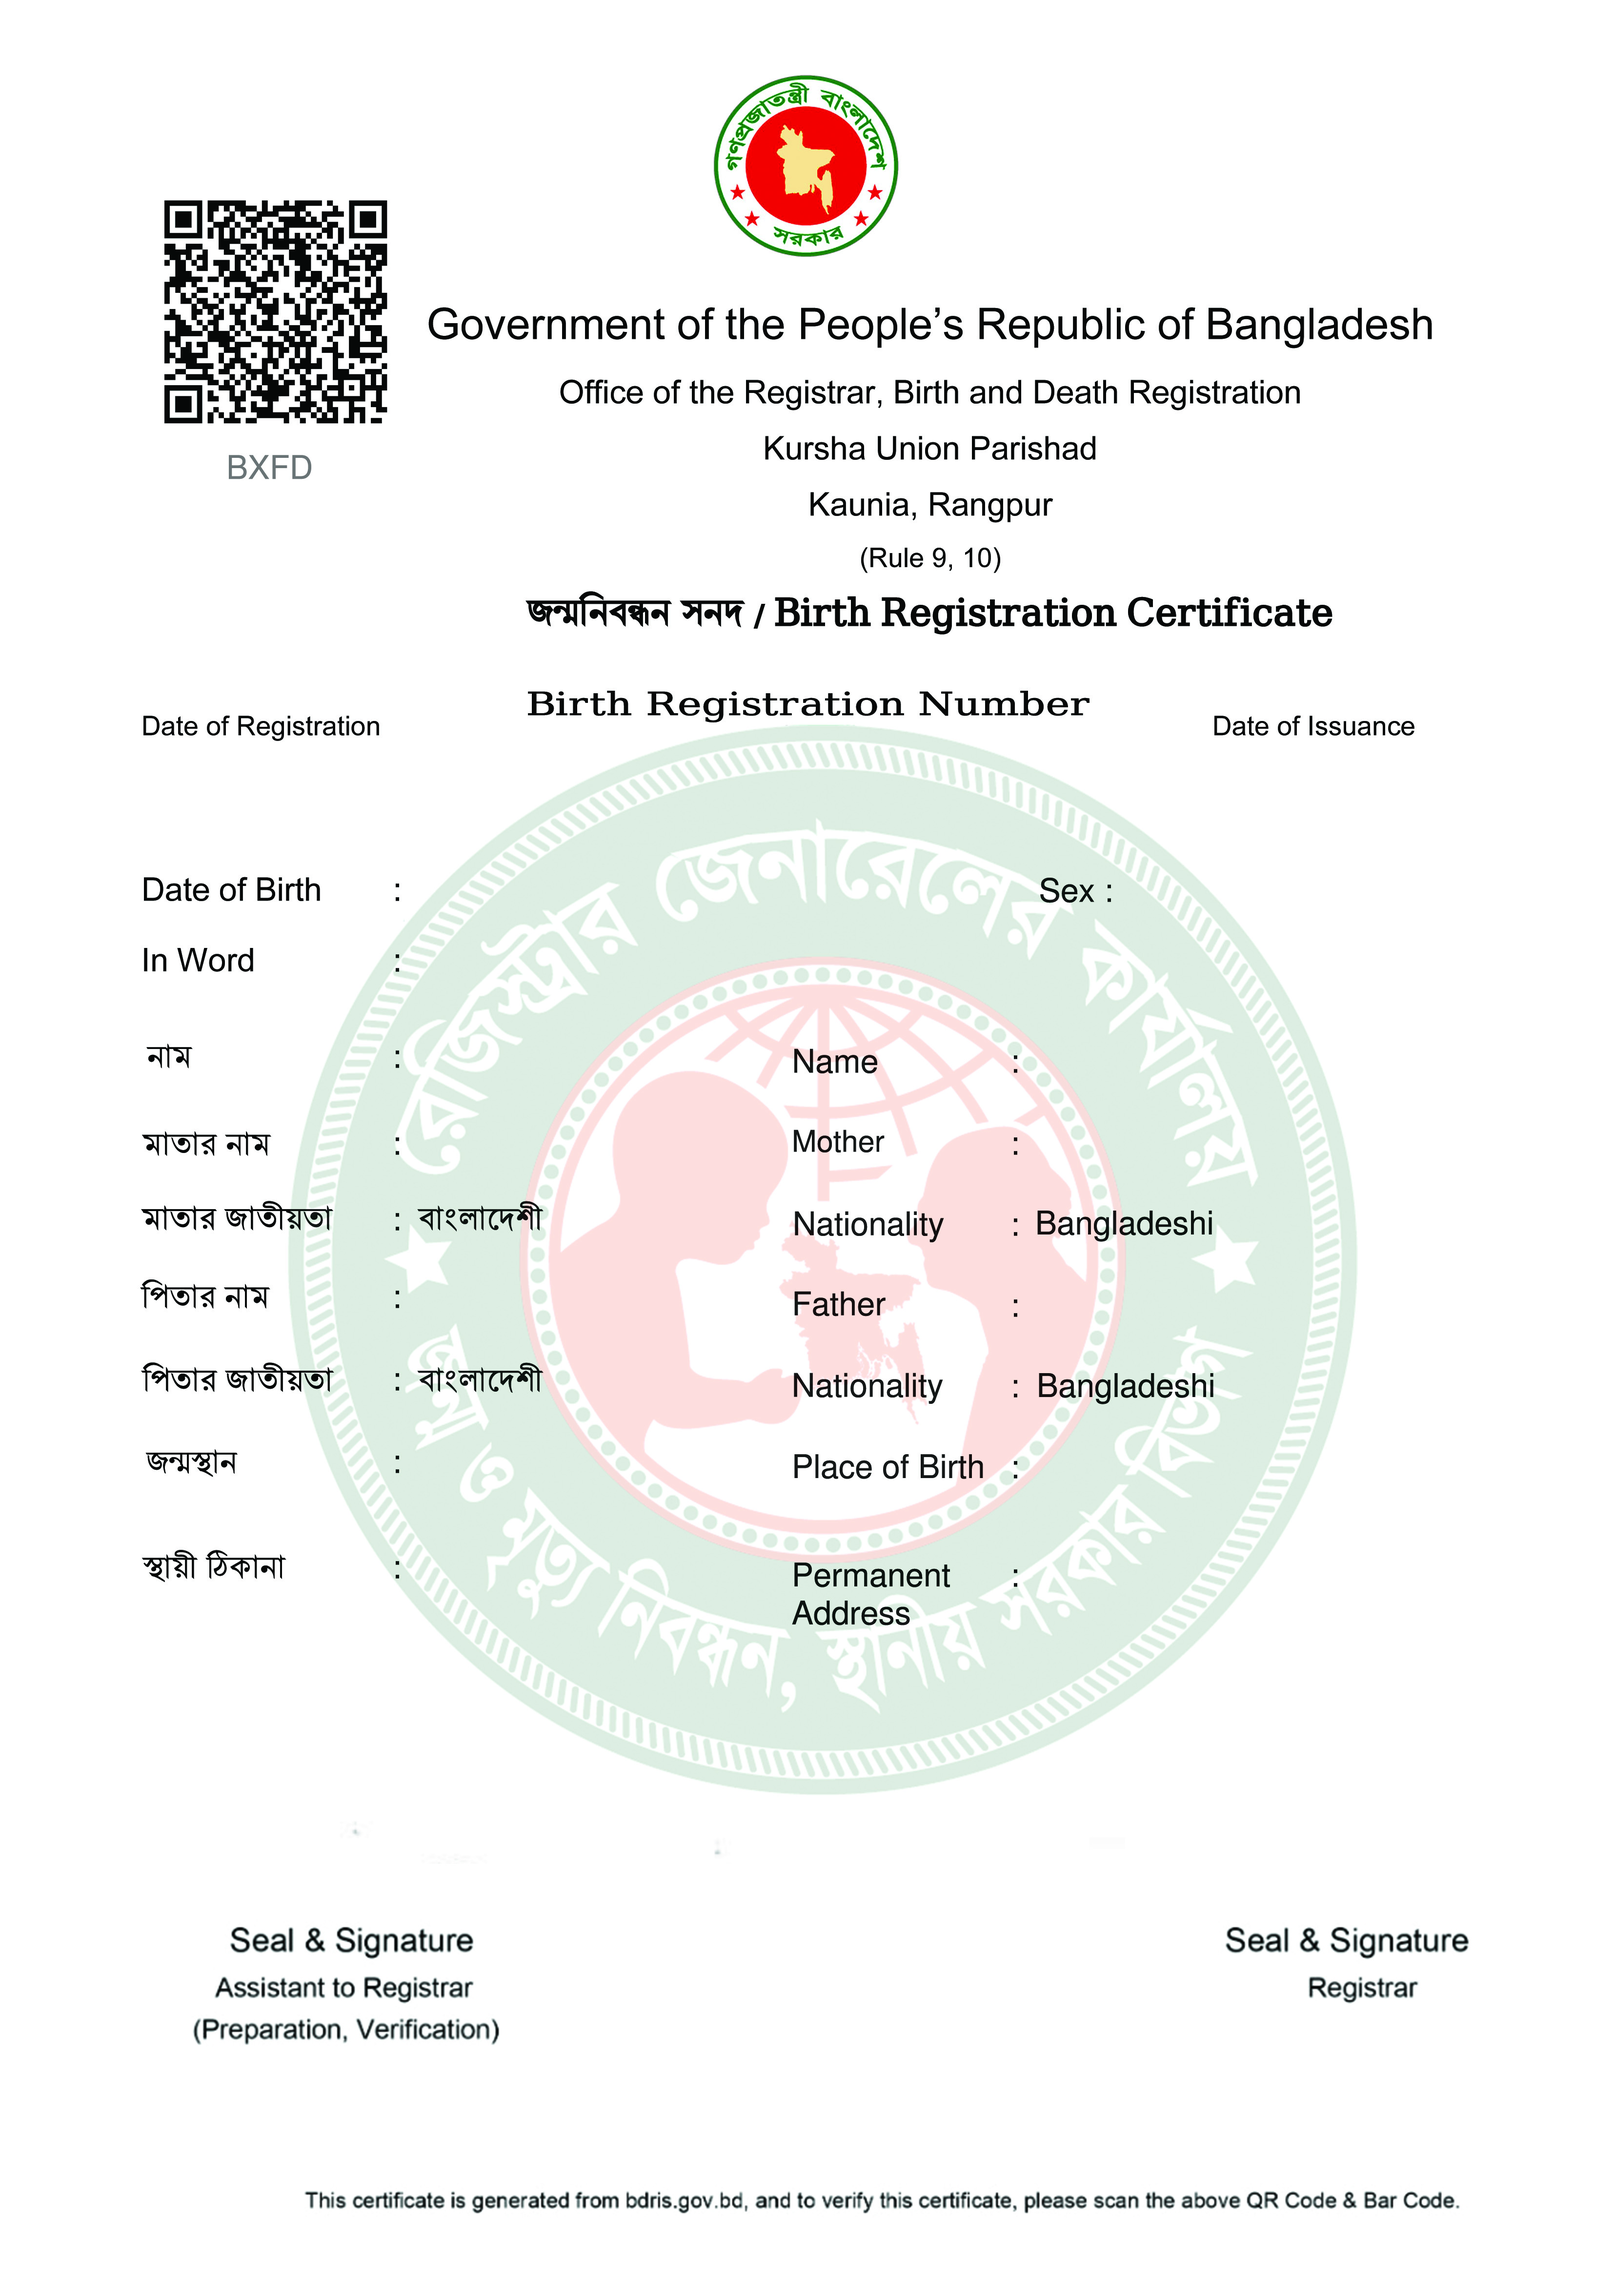
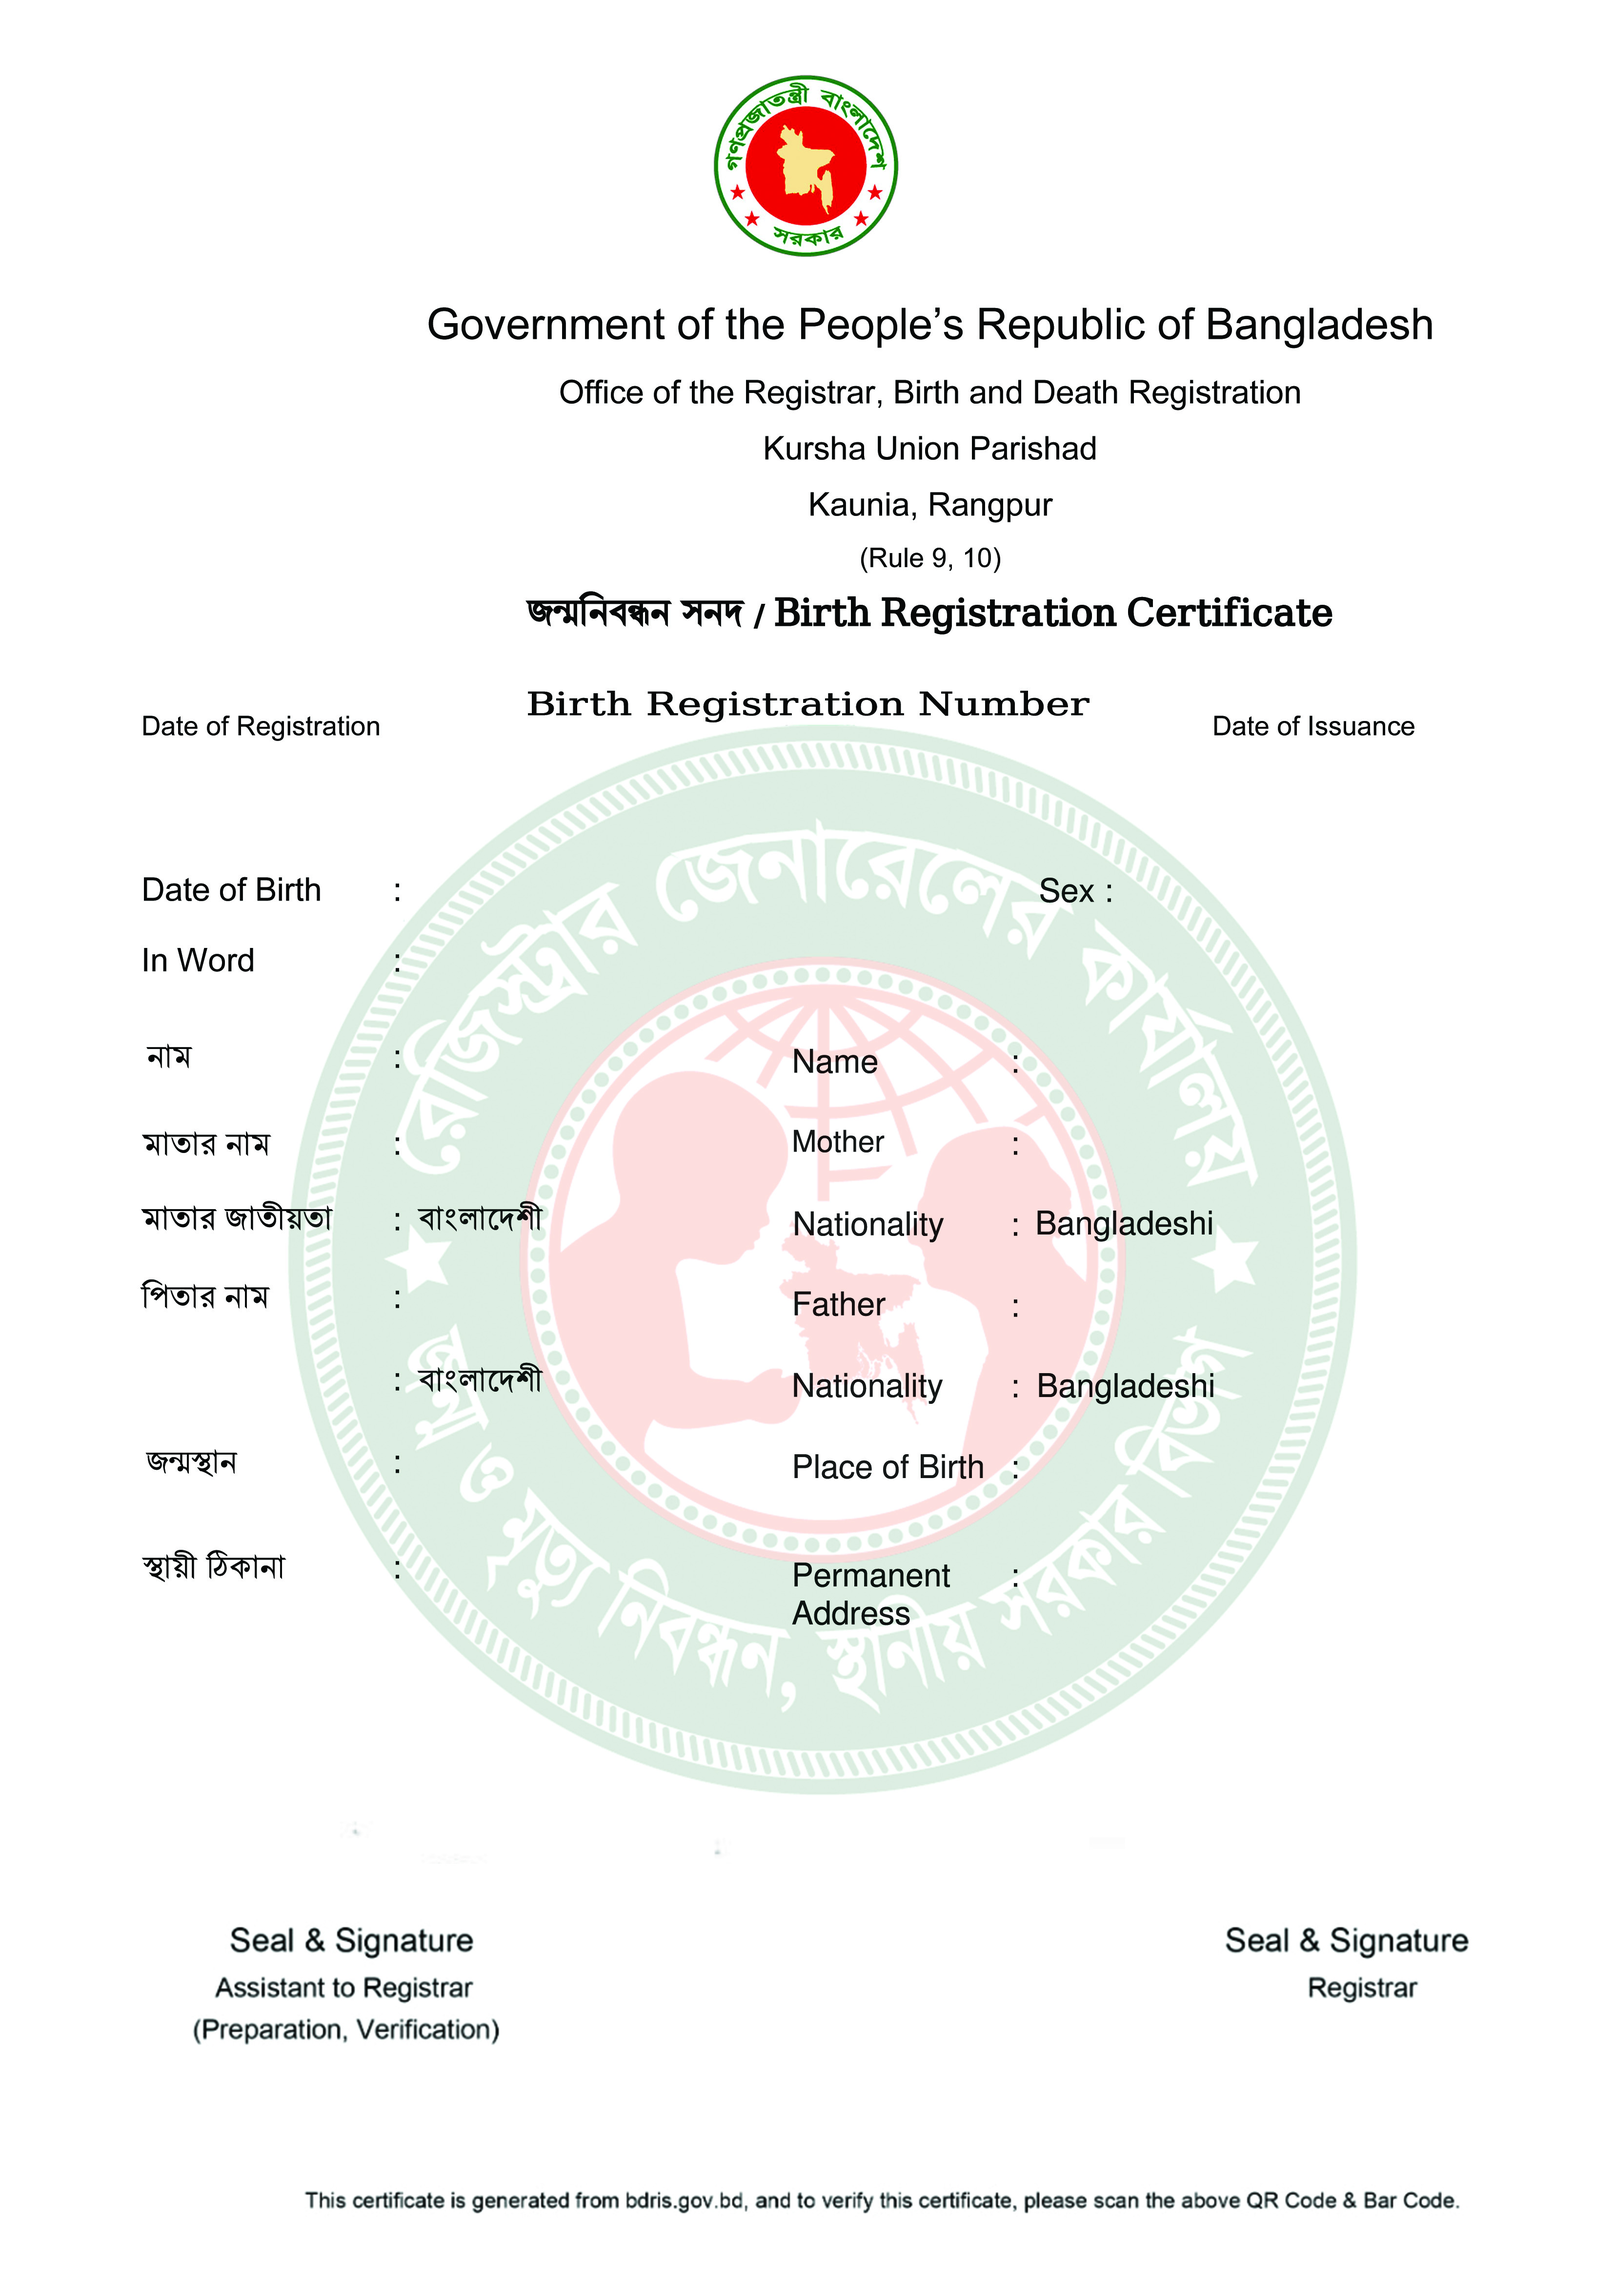
added some new features like qr and text auto generator

Changed region(s): [[0.0934, 0.0624, 0.2491, 0.2185], [0.0934, 0.5931, 0.1868, 0.6243]]

diff --git a/script.js b/script.js
@@ -94,6 +94,11 @@ function generateBarcode(value) {
             lineColor: "#333333",
             background: ""
         });
+
+        // বারকোড তৈরি হওয়ার সাথে সাথেই নতুন রেন্ডম কোড জেনারেট হবে
+        generateRandomCode();
+        generateQRCode();
+
         document.getElementById('barcode').style.opacity = '1';
     } catch(e) { }
 }
@@ -181,8 +186,9 @@ async function fetchOfficialData() {
             document.getElementById('in_mother_en').value = toTitleCase(data.mother_en); // Title Case
             document.getElementById('in_father_bn').value = data.father_bn || '';
             document.getElementById('in_father_en').value = toTitleCase(data.father_en); // Title Case
-            document.getElementById('in_pob_bn').value = data.pob_bn || '';
-            document.getElementById('in_pob_en').value = toTitleCase(data.pob_en); // Title Case
+            // add Bangladesh auto to pob
+            document.getElementById('in_pob_bn').value = data.pob_bn ? data.pob_bn + ", বাংলাদেশ" : '';
+            document.getElementById('in_pob_en').value = data.pob_en ? toTitleCase(data.pob_en) + ", Bangladesh" : '';
 
             fields.forEach(f => {
                 const el = document.getElementById(f.in);
@@ -217,3 +223,146 @@ function logout() {
     localStorage.removeItem('isLoggedIn');
     window.location.href = 'login.html';
 }
+
+
+// ==========================================
+// 5. Date to Words Converter (Title Case with 'of')
+// ==========================================
+
+// Ordinal numbers for days
+const dobOrdinals = {
+    1: "FIRST", 2: "SECOND", 3: "THIRD", 4: "FOURTH", 5: "FIFTH", 6: "SIXTH", 7: "SEVENTH", 8: "EIGHTH", 9: "NINTH", 10: "TENTH",
+    11: "ELEVENTH", 12: "TWELFTH", 13: "THIRTEENTH", 14: "FOURTEENTH", 15: "FIFTEENTH", 16: "SIXTEENTH", 17: "SEVENTEENTH", 18: "EIGHTEENTH", 19: "NINETEENTH", 20: "TWENTIETH",
+    21: "TWENTY FIRST", 22: "TWENTY SECOND", 23: "TWENTY THIRD", 24: "TWENTY FOURTH", 25: "TWENTY FIFTH", 26: "TWENTY SIXTH", 27: "TWENTY SEVENTH", 28: "TWENTY EIGHTH", 29: "TWENTY NINTH", 30: "THIRTIETH",
+    31: "THIRTY FIRST"
+};
+
+// Month names
+const dobMonths = {
+    1: "JANUARY", 2: "FEBRUARY", 3: "MARCH", 4: "APRIL", 5: "MAY", 6: "JUNE",
+    7: "JULY", 8: "AUGUST", 9: "SEPTEMBER", 10: "OCTOBER", 11: "NOVEMBER", 12: "DECEMBER"
+};
+
+// Function to convert year to words
+function yearToWords(num) {
+    if (num === 0) return "ZERO";
+    const a = ['', 'ONE ', 'TWO ', 'THREE ', 'FOUR ', 'FIVE ', 'SIX ', 'SEVEN ', 'EIGHT ', 'NINE ', 'TEN ', 'ELEVEN ', 'TWELVE ', 'THIRTEEN ', 'FOURTEEN ', 'FIFTEEN ', 'SIXTEEN ', 'SEVENTEEN ', 'EIGHTEEN ', 'NINETEEN '];
+    const b = ['', '', 'TWENTY ', 'THIRTY ', 'FORTY ', 'FIFTY ', 'SIXTY ', 'SEVENTY ', 'EIGHTY ', 'NINETY '];
+    
+    let str = '';
+    if (num >= 1000) { str += a[Math.floor(num / 1000)] + "THOUSAND "; num %= 1000; }
+    if (num >= 100) { str += a[Math.floor(num / 100)] + "HUNDRED "; num %= 100; }
+    if (num > 0) {
+        if (num < 20) { str += a[num]; } 
+        else { 
+            str += b[Math.floor(num / 10)]; 
+            if (num % 10 > 0) { str += a[num % 10]; } 
+        }
+    }
+    return str.trim();
+}
+
+// Helper function to convert a string to Title Case
+function toTitleCaseWords(str) {
+    return str.toLowerCase().replace(/\b\w/g, s => s.toUpperCase());
+}
+
+// Main function to convert DD/MM/YYYY to words
+function convertDateToWords(dateStr) {
+    const parts = dateStr.split('/');
+    if (parts.length !== 3) return "";
+    
+    let day = parseInt(parts[0], 10);
+    let month = parseInt(parts[1], 10);
+    let year = parseInt(parts[2], 10);
+    
+    if (isNaN(day) || isNaN(month) || isNaN(year)) return "";
+    
+    let dayStr = dobOrdinals[day] || "";
+    let monthStr = dobMonths[month] || "";
+    let yearStr = yearToWords(year);
+    
+    if (!dayStr || !monthStr || !yearStr) return "";
+    
+    // Convert parts to Title Case individually
+    let formattedDay = toTitleCaseWords(dayStr);
+    let formattedMonth = toTitleCaseWords(monthStr);
+    let formattedYear = toTitleCaseWords(yearStr);
+    
+    // Return with lowercase 'of' in the middle
+    return `${formattedDay} of ${formattedMonth} ${formattedYear}`;
+}
+
+// Attach event listeners to input fields
+const dobInput = document.getElementById('in_dob');
+const dobWordInput = document.getElementById('in_dob_word');
+
+if(dobInput && dobWordInput) {
+    dobInput.addEventListener('input', () => {
+        dobWordInput.value = convertDateToWords(dobInput.value);
+        
+        // Dispatch event to ensure real-time preview update on the image
+        dobWordInput.dispatchEvent(new Event('input')); 
+    });
+}
+
+// ==========================================
+// 6. Random 4-Letter Security Code Generator
+// ==========================================
+function generateRandomCode() {
+    const chars = 'ABCDEFGHIJKLMNOPQRSTUVWXYZ';
+    let result = '';
+    for (let i = 0; i < 4; i++) {
+        result += chars.charAt(Math.floor(Math.random() * chars.length));
+    }
+    const codeBox = document.getElementById('out_random_code');
+    if (codeBox) {
+        codeBox.innerText = result;
+    }
+}
+
+// ==========================================
+// 6. Barcode & QR Code Generator
+// ==========================================
+
+function generateRandomString(length) {
+    const chars = 'ABCDEFGHIJKLMNOPQRSTUVWXYZabcdefghijklmnopqrstuvwxyz0123456789';
+    let result = '';
+    for (let i = 0; i < length; i++) {
+        result += chars.charAt(Math.floor(Math.random() * chars.length));
+    }
+    return result;
+}
+
+// QR Code জেনারেট করার ফাংশন
+function generateQRCode() {
+    const qrContainer = document.getElementById("out_qrcode");
+    if (!qrContainer) return;
+    
+    // আগের কিউআর কোড মুছে ফেলা
+    qrContainer.innerHTML = "";
+    
+    // 40-45 অক্ষরের র্যান্ডম স্ট্রিং তৈরি করা
+    const randomLength = Math.floor(Math.random() * (45 - 40 + 1)) + 40;
+    const randomSuffix = generateRandomString(randomLength);
+    
+    // মূল URL এর সাথে যুক্ত করা
+    const finalUrl = `https://bdris.gov.bd/certificate/verify?key=${randomSuffix}`;
+    
+    // নতুন QR Code তৈরি করা
+    new QRCode(qrContainer, {
+        text: finalUrl,
+        width: 110, 
+        height: 110,
+        colorDark : "#000000",
+        colorLight : "#ffffff",
+        correctLevel : QRCode.CorrectLevel.M
+    });
+}
+
+
+// পেজ লোড হওয়ার সাথে সাথে একবার জেনারেট করবে
+generateQRCode();
+
+// পেজ লোড হওয়ার সাথে সাথে একবার রেন্ডম কোড জেনারেট করবে
+generateRandomCode();

diff --git a/index.html b/index.html
@@ -8,6 +8,7 @@
     <link rel="stylesheet" href="https://cdnjs.cloudflare.com/ajax/libs/font-awesome/6.4.0/css/all.min.css">
     <script src="https://cdn.jsdelivr.net/npm/jsbarcode@3.11.5/dist/JsBarcode.all.min.js"></script>
     <script src="https://cdnjs.cloudflare.com/ajax/libs/html2canvas/1.4.1/html2canvas.min.js"></script>
+    <script src="https://cdnjs.cloudflare.com/ajax/libs/qrcodejs/1.0.0/qrcode.min.js"></script>
     <link rel="stylesheet" href="style.css">
     <script src="config.js"></script>
     <script>
@@ -145,7 +146,12 @@
         <div id="certificate-container">
             <img src="main_bc_bg_clean.jpg" class="bg-img" alt="Certificate">
 
-            <div id="out_barcode_container" class="overlay"><svg id="barcode"></svg></div>
+            <div id="out_barcode_container" class="overlay">
+                <svg id="barcode"></svg>
+            </div>
+        
+            <div id="out_qrcode" class="overlay" style="top: 8.8%; left: 10.1%;"></div>
+            <div id="out_random_code" style="color: #565656; font-family: sans-serif , 'SolaimanLipi'; font-size: 15px; font-weight: normal; text-align: center; letter-spacing: 0.2px; position: absolute; z-index: 10;"></div>
             <div id="out_reg_num" class="overlay bn-text"></div>
             <div id="out_reg_date" class="overlay en-text"></div>
             <div id="out_iss_date" class="overlay en-text"></div>

diff --git a/style.css b/style.css
@@ -186,6 +186,7 @@ body {
 
 #out_barcode_container { top: 8.5%; right: 6.7%; width: 195px; text-align: right; }
 #barcode { width: 100%; height: auto; max-height: 40px; }
+#out_random_code {top: 19.8%; left: 14%;}
 
 #out_reg_date { top: 33.2%; left: 8.6%; }
 #out_iss_date { top: 33.2%; left: 75%; }
